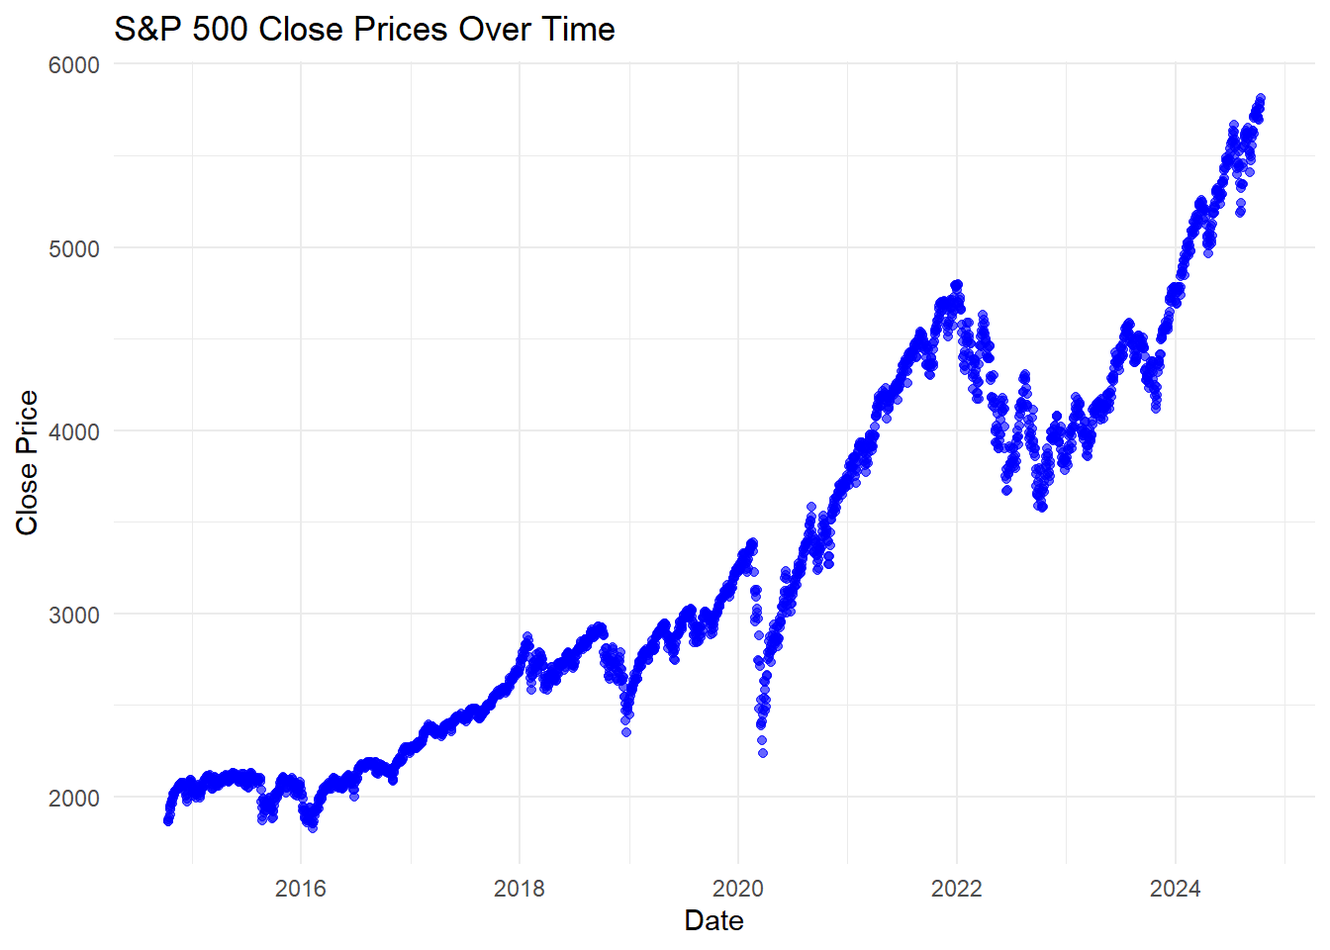
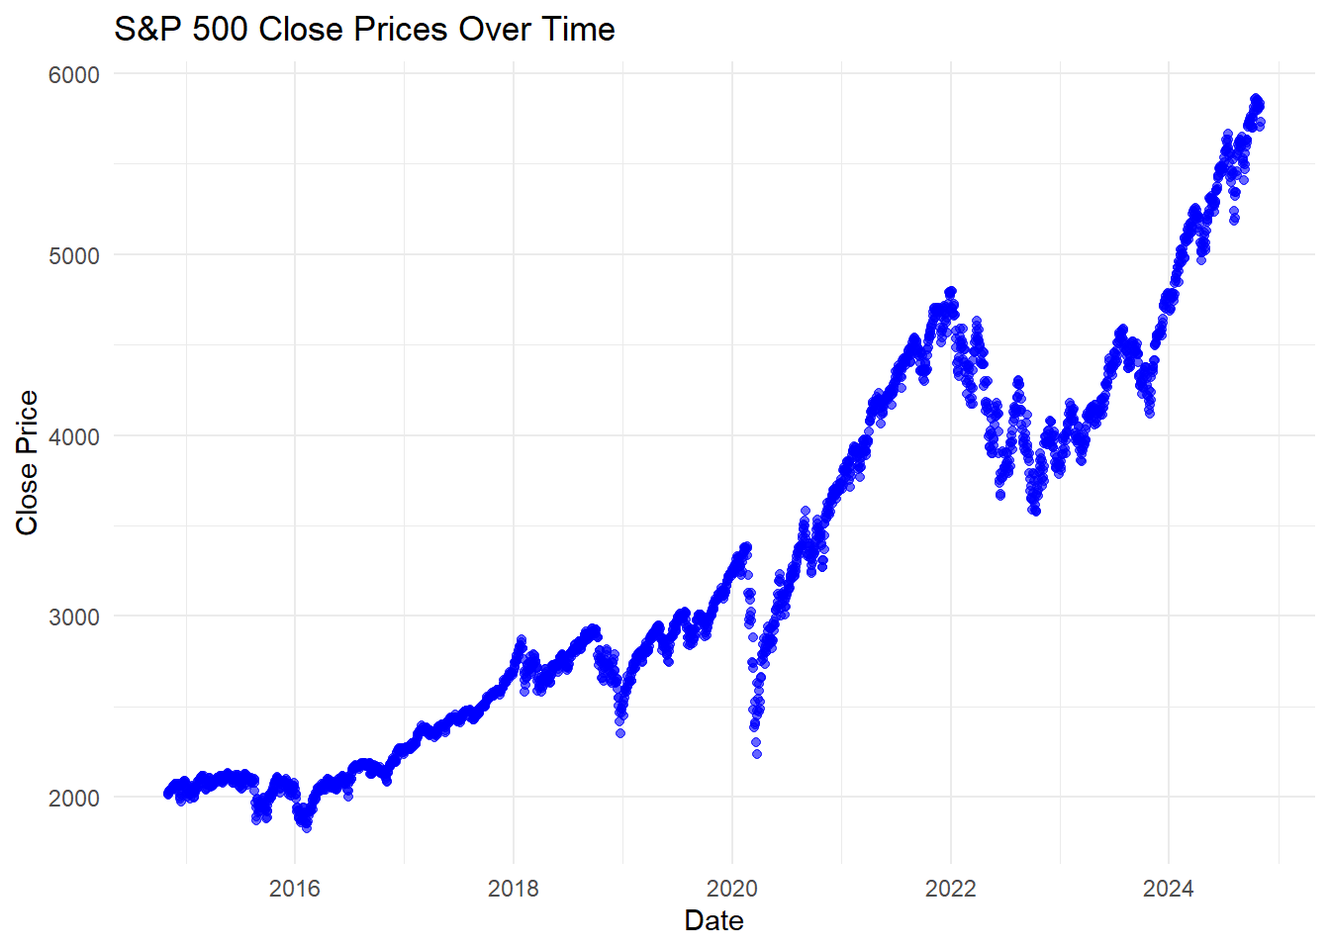
Cambios actividad 3

diff --git a/docs/análisis-avanzado-de-series-de-tiempo.html b/docs/análisis-avanzado-de-series-de-tiempo.html
@@ -4,13 +4,13 @@
 
   <meta charset="utf-8" />
   <meta http-equiv="X-UA-Compatible" content="IE=edge" />
-  <title>Análisis de Series de Tiempo</title>
+  <title> 3 Análisis Avanzado de Series de Tiempo | Análisis de Series de Tiempo</title>
   <meta name="description" content="<p>This is a minimal example of using the bookdown package to write a book.
 The HTML output format for this example is bookdown::gitbook,
 set in the _output.yml file.</p>" />
   <meta name="generator" content="bookdown 0.41 and GitBook 2.6.7" />
 
-  <meta property="og:title" content="Análisis de Series de Tiempo" />
+  <meta property="og:title" content=" 3 Análisis Avanzado de Series de Tiempo | Análisis de Series de Tiempo" />
   <meta property="og:type" content="book" />
   
   <meta property="og:description" content="<p>This is a minimal example of using the bookdown package to write a book.
@@ -19,7 +19,7 @@ set in the _output.yml file.</p>" />
   <meta name="github-repo" content="rstudio/bookdown-demo" />
 
   <meta name="twitter:card" content="summary" />
-  <meta name="twitter:title" content="Análisis de Series de Tiempo" />
+  <meta name="twitter:title" content=" 3 Análisis Avanzado de Series de Tiempo | Análisis de Series de Tiempo" />
   
   <meta name="twitter:description" content="<p>This is a minimal example of using the bookdown package to write a book.
 The HTML output format for this example is bookdown::gitbook,
@@ -36,8 +36,8 @@ set in the _output.yml file.</p>" />
   <meta name="apple-mobile-web-app-status-bar-style" content="black" />
   
   
+<link rel="prev" href="análisis-gráfico-del-comportamiento-del-sp-500.html"/>
 
-<link rel="next" href="análisis-gráfico-del-comportamiento-del-sp-500.html"/>
 <script src="libs/jquery-3.6.0/jquery-3.6.0.min.js"></script>
 <script src="https://cdn.jsdelivr.net/npm/fuse.js@6.4.6/dist/fuse.min.js"></script>
 <link href="libs/gitbook-2.6.7/css/style.css" rel="stylesheet" />
@@ -188,98 +188,20 @@ code span.wa { color: #60a0b0; font-weight: bold; font-style: italic; } /* Warni
           <div class="page-inner">
 
             <section class="normal" id="section-">
-<div id="header">
-<h1 class="title">Análisis de Series de Tiempo</h1>
-<p class="author"><em>Grupo 8</em></p>
-<p class="date"><em>2024-11-03</em></p>
+<div id="análisis-avanzado-de-series-de-tiempo" class="section level1 hasAnchor" number="3">
+<h1><span class="header-section-number"> 3</span> Análisis Avanzado de Series de Tiempo<a href="análisis-avanzado-de-series-de-tiempo.html#análisis-avanzado-de-series-de-tiempo" class="anchor-section" aria-label="Anchor link to header"></a></h1>
+<div id="descomposición-de-la-serie-de-tiempo" class="section level2 hasAnchor" number="3.1">
+<h2><span class="header-section-number">3.1</span> Descomposición de la Serie de Tiempo<a href="análisis-avanzado-de-series-de-tiempo.html#descomposición-de-la-serie-de-tiempo" class="anchor-section" aria-label="Anchor link to header"></a></h2>
 </div>
-<div id="propuesta-de-estructura-de-datos-a-trabajar-en-el-curso" class="section level1 hasAnchor" number="1">
-<h1><span class="header-section-number"> 1</span> Propuesta de estructura de datos a trabajar en el curso<a href="index.html#propuesta-de-estructura-de-datos-a-trabajar-en-el-curso" class="anchor-section" aria-label="Anchor link to header"></a></h1>
-<p>La estructura de información a trabajar en el curso será la serie de tiempo correspondiente al índice S&amp;P 500, el cual es un indicador ponderado del valor de capitalización de las 500 compañías más importantes de Estados Unidos.</p>
-<p>Calculado por la evaluadora de riesgo Standard &amp; Poor’s, este índice captura el 80% del comportamiento de la capitalización bursátil en el mercado americano. En tanto su estructura posee mayor diversidad en el tipo de compañías que lo componen, se tiene que el índice S&amp;P 500 es una buena medida para monitorear y predecir la actividad económica en los enclaves económicos de mayor importancia a nivel global.</p>
-<p>En general, la pertinencia del uso de este dataset radica en 3 razones principales:</p>
-<ul>
-<li><p>En principio, se trata de una estructura de información concisa, legítima en el marco de las actividades de sectores financieros globales, y sin problemas previos en cuanto a la limpieza de sus observaciones. Por lo que una rutina progresiva de análisis sobre esta base de datos se puede dar con mayor facilidad e interpretabilidad.</p></li>
-<li><p>El estudio del comportamiento de la capitalización bursátil a nivel global, contenido en el dataset escogido, implica una vista previa y una posible profundización del análisis financiero en el marco de las series de tiempo sobre el comportamiento de firmas, sectores y economías de alto impacto. De esta manera, la aplicación de la rutina de análisis del curso sobre este dataset puede decantar en un ejercicio robusto que puede extenderse más allá de los propósitos básicos de aprendizaje, y conformar una herramienta útil para las intenciones del autor.</p></li>
-<li><p>El estudio de la estructura y comportamiento de este dataset como serie de tiempo, inmerso en las dinámicas de intercambio de los mercados de activos financieros, puede representar una herramienta de profundización para la toma de decisiones en materia de optimización de portafolios, y, en general, en materia de comprensión e implementación práctica de instrumentos aplicados de análisis de procesos estocásticos y metodologías de pronósticos.</p></li>
-</ul>
-<div id="dataset" class="section level2 hasAnchor" number="1.1">
-<h2><span class="header-section-number">1.1</span> Dataset:<a href="index.html#dataset" class="anchor-section" aria-label="Anchor link to header"></a></h2>
-<div class="sourceCode" id="cb1"><pre class="sourceCode r"><code class="sourceCode r"><span id="cb1-1"><a href="index.html#cb1-1" tabindex="-1"></a><span class="co"># Load necessary libraries</span></span>
-<span id="cb1-2"><a href="index.html#cb1-2" tabindex="-1"></a><span class="fu">library</span>(rvest)</span>
-<span id="cb1-3"><a href="index.html#cb1-3" tabindex="-1"></a><span class="fu">library</span>(dplyr)</span>
-<span id="cb1-4"><a href="index.html#cb1-4" tabindex="-1"></a></span>
-<span id="cb1-5"><a href="index.html#cb1-5" tabindex="-1"></a><span class="co"># Load necessary libraries</span></span>
-<span id="cb1-6"><a href="index.html#cb1-6" tabindex="-1"></a><span class="fu">library</span>(readr)</span>
-<span id="cb1-7"><a href="index.html#cb1-7" tabindex="-1"></a></span>
-<span id="cb1-8"><a href="index.html#cb1-8" tabindex="-1"></a><span class="co"># Import the downloaded CSV file (change the path accordingly)</span></span>
-<span id="cb1-9"><a href="index.html#cb1-9" tabindex="-1"></a>spx_data <span class="ot">&lt;-</span> <span class="fu">read_csv</span>(<span class="st">&quot;C:/Users/anaso/Downloads/HistoricalData_1728883475484.csv&quot;</span>)</span>
-<span id="cb1-10"><a href="index.html#cb1-10" tabindex="-1"></a></span>
-<span id="cb1-11"><a href="index.html#cb1-11" tabindex="-1"></a><span class="co"># Display the first few rows of the dataset</span></span>
-<span id="cb1-12"><a href="index.html#cb1-12" tabindex="-1"></a><span class="fu">head</span>(spx_data)</span></code></pre></div>
-<pre><code>## # A tibble: 6 × 5
-##   Date       `Close/Last`  Open  High   Low
-##   &lt;chr&gt;             &lt;dbl&gt; &lt;dbl&gt; &lt;dbl&gt; &lt;dbl&gt;
-## 1 11/01/2024        5729. 5723. 5773. 5723.
-## 2 10/31/2024        5705. 5775. 5775. 5703.
-## 3 10/30/2024        5814. 5833. 5851. 5811.
-## 4 10/29/2024        5833. 5820. 5847. 5802.
-## 5 10/28/2024        5824. 5834. 5843. 5823.
-## 6 10/25/2024        5808. 5827. 5863. 5800.</code></pre>
+<div id="verificación-de-estacionariedad" class="section level2 hasAnchor" number="3.2">
+<h2><span class="header-section-number">3.2</span> Verificación de Estacionariedad<a href="análisis-avanzado-de-series-de-tiempo.html#verificación-de-estacionariedad" class="anchor-section" aria-label="Anchor link to header"></a></h2>
 </div>
-<div id="summary" class="section level2 hasAnchor" number="1.2">
-<h2><span class="header-section-number">1.2</span> Summary:<a href="index.html#summary" class="anchor-section" aria-label="Anchor link to header"></a></h2>
-<div class="sourceCode" id="cb3"><pre class="sourceCode r"><code class="sourceCode r"><span id="cb3-1"><a href="index.html#cb3-1" tabindex="-1"></a><span class="fu">summary</span>(spx_data)</span></code></pre></div>
-<pre><code>##      Date             Close/Last        Open           High           Low      
-##  Length:2528        Min.   :1829   Min.   :   0   Min.   :   0   Min.   :   0  
-##  Class :character   1st Qu.:2378   1st Qu.:2379   1st Qu.:2388   1st Qu.:2367  
-##  Mode  :character   Median :2954   Median :2953   Median :2966   Median :2939  
-##                     Mean   :3288   Mean   :3278   Mean   :3296   Mean   :3260  
-##                     3rd Qu.:4163   3rd Qu.:4159   3rd Qu.:4183   3rd Qu.:4130  
-##                     Max.   :5865   Max.   :5876   Max.   :5878   Max.   :5846</code></pre>
+<div id="diferenciación-de-la-serie" class="section level2 hasAnchor" number="3.3">
+<h2><span class="header-section-number">3.3</span> Diferenciación de la Serie<a href="análisis-avanzado-de-series-de-tiempo.html#diferenciación-de-la-serie" class="anchor-section" aria-label="Anchor link to header"></a></h2>
 </div>
-<div id="scatter-plott-de-la-serie-de-tiempo" class="section level2 hasAnchor" number="1.3">
-<h2><span class="header-section-number">1.3</span> Scatter plott de la serie de tiempo:<a href="index.html#scatter-plott-de-la-serie-de-tiempo" class="anchor-section" aria-label="Anchor link to header"></a></h2>
-<div class="sourceCode" id="cb5"><pre class="sourceCode r"><code class="sourceCode r"><span id="cb5-1"><a href="index.html#cb5-1" tabindex="-1"></a><span class="co"># Load necessary libraries</span></span>
-<span id="cb5-2"><a href="index.html#cb5-2" tabindex="-1"></a><span class="fu">library</span>(ggplot2)</span>
-<span id="cb5-3"><a href="index.html#cb5-3" tabindex="-1"></a><span class="fu">library</span>(dplyr)</span>
-<span id="cb5-4"><a href="index.html#cb5-4" tabindex="-1"></a></span>
-<span id="cb5-5"><a href="index.html#cb5-5" tabindex="-1"></a><span class="co"># Print the column names to check their exact names</span></span>
-<span id="cb5-6"><a href="index.html#cb5-6" tabindex="-1"></a><span class="co">#print(colnames(spx_data))</span></span>
-<span id="cb5-7"><a href="index.html#cb5-7" tabindex="-1"></a></span>
-<span id="cb5-8"><a href="index.html#cb5-8" tabindex="-1"></a><span class="co"># Convert the Date column to Date type</span></span>
-<span id="cb5-9"><a href="index.html#cb5-9" tabindex="-1"></a>spx_data <span class="ot">&lt;-</span> spx_data <span class="sc">%&gt;%</span> </span>
-<span id="cb5-10"><a href="index.html#cb5-10" tabindex="-1"></a>  <span class="fu">mutate</span>(<span class="at">Date =</span> <span class="fu">as.Date</span>(Date, <span class="at">format =</span> <span class="st">&quot;%m/%d/%Y&quot;</span>))</span>
-<span id="cb5-11"><a href="index.html#cb5-11" tabindex="-1"></a></span>
-<span id="cb5-12"><a href="index.html#cb5-12" tabindex="-1"></a><span class="co"># Update the column name here after checking the output of print(colnames(spx_data))</span></span>
-<span id="cb5-13"><a href="index.html#cb5-13" tabindex="-1"></a>spx_data <span class="ot">&lt;-</span> spx_data <span class="sc">%&gt;%</span></span>
-<span id="cb5-14"><a href="index.html#cb5-14" tabindex="-1"></a>  <span class="fu">mutate</span>(<span class="at">Close_price =</span> <span class="fu">as.numeric</span>(<span class="fu">gsub</span>(<span class="st">&quot;[^0-9.]&quot;</span>, <span class="st">&quot;&quot;</span>, <span class="st">`</span><span class="at">Close/Last</span><span class="st">`</span>)))  <span class="co"># Update this line with the correct name</span></span>
-<span id="cb5-15"><a href="index.html#cb5-15" tabindex="-1"></a></span>
-<span id="cb5-16"><a href="index.html#cb5-16" tabindex="-1"></a><span class="co"># Remove rows with NA values in Date or Close_price</span></span>
-<span id="cb5-17"><a href="index.html#cb5-17" tabindex="-1"></a>spx_data <span class="ot">&lt;-</span> spx_data <span class="sc">%&gt;%</span></span>
-<span id="cb5-18"><a href="index.html#cb5-18" tabindex="-1"></a>  <span class="fu">filter</span>(<span class="sc">!</span><span class="fu">is.na</span>(Date) <span class="sc">&amp;</span> <span class="sc">!</span><span class="fu">is.na</span>(Close_price))</span>
-<span id="cb5-19"><a href="index.html#cb5-19" tabindex="-1"></a></span>
-<span id="cb5-20"><a href="index.html#cb5-20" tabindex="-1"></a><span class="co"># Create the scatter plot</span></span>
-<span id="cb5-21"><a href="index.html#cb5-21" tabindex="-1"></a><span class="fu">ggplot</span>(spx_data, <span class="fu">aes</span>(<span class="at">x =</span> Date, <span class="at">y =</span> Close_price)) <span class="sc">+</span></span>
-<span id="cb5-22"><a href="index.html#cb5-22" tabindex="-1"></a>  <span class="fu">geom_point</span>(<span class="at">color =</span> <span class="st">&quot;blue&quot;</span>, <span class="at">alpha =</span> <span class="fl">0.6</span>) <span class="sc">+</span></span>
-<span id="cb5-23"><a href="index.html#cb5-23" tabindex="-1"></a>  <span class="fu">labs</span>(<span class="at">title =</span> <span class="st">&quot;S&amp;P 500 Close Prices Over Time&quot;</span>,</span>
-<span id="cb5-24"><a href="index.html#cb5-24" tabindex="-1"></a>       <span class="at">x =</span> <span class="st">&quot;Date&quot;</span>,</span>
-<span id="cb5-25"><a href="index.html#cb5-25" tabindex="-1"></a>       <span class="at">y =</span> <span class="st">&quot;Close Price&quot;</span>) <span class="sc">+</span></span>
-<span id="cb5-26"><a href="index.html#cb5-26" tabindex="-1"></a>  <span class="fu">theme_minimal</span>()</span></code></pre></div>
-<p><img src="_main_files/figure-html/scatter%20plot1-1.png" width="672" /></p>
-</div>
-<div id="fuente" class="section level2 hasAnchor" number="1.4">
-<h2><span class="header-section-number">1.4</span> Fuente:<a href="index.html#fuente" class="anchor-section" aria-label="Anchor link to header"></a></h2>
-<p><a href="https://www.nasdaq.com/market-activity/index/spx/historical?page=1&amp;rows_per_page=10&amp;timeline=y10" class="uri">https://www.nasdaq.com/market-activity/index/spx/historical?page=1&amp;rows_per_page=10&amp;timeline=y10</a></p>
-<pre><code>## # A tibble: 6 × 5
-##   Date       `Close/Last`  Open  High   Low
-##   &lt;chr&gt;             &lt;dbl&gt; &lt;dbl&gt; &lt;dbl&gt; &lt;dbl&gt;
-## 1 11/01/2024        5729. 5723. 5773. 5723.
-## 2 10/31/2024        5705. 5775. 5775. 5703.
-## 3 10/30/2024        5814. 5833. 5851. 5811.
-## 4 10/29/2024        5833. 5820. 5847. 5802.
-## 5 10/28/2024        5824. 5834. 5843. 5823.
-## 6 10/25/2024        5808. 5827. 5863. 5800.</code></pre>
+<div id="transformación-para-control-de-tendencia-y-variabilidad" class="section level2 hasAnchor" number="3.4">
+<h2><span class="header-section-number">3.4</span> Transformación para Control de Tendencia y Variabilidad<a href="análisis-avanzado-de-series-de-tiempo.html#transformación-para-control-de-tendencia-y-variabilidad" class="anchor-section" aria-label="Anchor link to header"></a></h2>
+
 </div>
 </div>
             </section>
@@ -287,8 +209,8 @@ code span.wa { color: #60a0b0; font-weight: bold; font-style: italic; } /* Warni
           </div>
         </div>
       </div>
+<a href="análisis-gráfico-del-comportamiento-del-sp-500.html" class="navigation navigation-prev navigation-unique" aria-label="Previous page"><i class="fa fa-angle-left"></i></a>
 
-<a href="análisis-gráfico-del-comportamiento-del-sp-500.html" class="navigation navigation-next navigation-unique" aria-label="Next page"><i class="fa fa-angle-right"></i></a>
     </div>
   </div>
 <script src="libs/gitbook-2.6.7/js/app.min.js"></script>

diff --git a/docs/análisis-gráfico-del-comportamiento-del-sp-500.html b/docs/análisis-gráfico-del-comportamiento-del-sp-500.html
@@ -8,7 +8,7 @@
   <meta name="description" content="<p>This is a minimal example of using the bookdown package to write a book.
 The HTML output format for this example is bookdown::gitbook,
 set in the _output.yml file.</p>" />
-  <meta name="generator" content="bookdown 0.40 and GitBook 2.6.7" />
+  <meta name="generator" content="bookdown 0.41 and GitBook 2.6.7" />
 
   <meta property="og:title" content=" 2 Análisis gráfico del comportamiento del S&amp;P 500 | Análisis de Series de Tiempo" />
   <meta property="og:type" content="book" />
@@ -29,7 +29,7 @@ set in the _output.yml file.</p>" />
 <meta name="author" content="Grupo 8" />
 
 
-<meta name="date" content="2024-11-02" />
+<meta name="date" content="2024-11-03" />
 
   <meta name="viewport" content="width=device-width, initial-scale=1" />
   <meta name="apple-mobile-web-app-capable" content="yes" />
@@ -37,7 +37,7 @@ set in the _output.yml file.</p>" />
   
   
 <link rel="prev" href="index.html"/>
-
+<link rel="next" href="análisis-avanzado-de-series-de-tiempo.html"/>
 <script src="libs/jquery-3.6.0/jquery-3.6.0.min.js"></script>
 <script src="https://cdn.jsdelivr.net/npm/fuse.js@6.4.6/dist/fuse.min.js"></script>
 <link href="libs/gitbook-2.6.7/css/style.css" rel="stylesheet" />
@@ -62,7 +62,7 @@ set in the _output.yml file.</p>" />
 
 <style type="text/css">
 pre > code.sourceCode { white-space: pre; position: relative; }
-pre > code.sourceCode > span { line-height: 1.25; }
+pre > code.sourceCode > span { display: inline-block; line-height: 1.25; }
 pre > code.sourceCode > span:empty { height: 1.2em; }
 .sourceCode { overflow: visible; }
 code.sourceCode > span { color: inherit; text-decoration: inherit; }
@@ -161,6 +161,13 @@ code span.wa { color: #60a0b0; font-weight: bold; font-style: italic; } /* Warni
 <li class="chapter" data-level="2.4" data-path="análisis-gráfico-del-comportamiento-del-sp-500.html"><a href="análisis-gráfico-del-comportamiento-del-sp-500.html#aproximación-por-ma"><i class="fa fa-check"></i><b>2.4</b> Aproximación por MA</a></li>
 <li class="chapter" data-level="2.5" data-path="análisis-gráfico-del-comportamiento-del-sp-500.html"><a href="análisis-gráfico-del-comportamiento-del-sp-500.html#aproximación-por-rezagos"><i class="fa fa-check"></i><b>2.5</b> Aproximación por rezagos</a></li>
 </ul></li>
+<li class="chapter" data-level="3" data-path="análisis-avanzado-de-series-de-tiempo.html"><a href="análisis-avanzado-de-series-de-tiempo.html"><i class="fa fa-check"></i><b>3</b> Análisis Avanzado de Series de Tiempo</a>
+<ul>
+<li class="chapter" data-level="3.1" data-path="análisis-avanzado-de-series-de-tiempo.html"><a href="análisis-avanzado-de-series-de-tiempo.html#descomposición-de-la-serie-de-tiempo"><i class="fa fa-check"></i><b>3.1</b> Descomposición de la Serie de Tiempo</a></li>
+<li class="chapter" data-level="3.2" data-path="análisis-avanzado-de-series-de-tiempo.html"><a href="análisis-avanzado-de-series-de-tiempo.html#verificación-de-estacionariedad"><i class="fa fa-check"></i><b>3.2</b> Verificación de Estacionariedad</a></li>
+<li class="chapter" data-level="3.3" data-path="análisis-avanzado-de-series-de-tiempo.html"><a href="análisis-avanzado-de-series-de-tiempo.html#diferenciación-de-la-serie"><i class="fa fa-check"></i><b>3.3</b> Diferenciación de la Serie</a></li>
+<li class="chapter" data-level="3.4" data-path="análisis-avanzado-de-series-de-tiempo.html"><a href="análisis-avanzado-de-series-de-tiempo.html#transformación-para-control-de-tendencia-y-variabilidad"><i class="fa fa-check"></i><b>3.4</b> Transformación para Control de Tendencia y Variabilidad</a></li>
+</ul></li>
 <li class="divider"></li>
 <li><a href="https://github.com/rstudio/bookdown" target="blank">Published with bookdown</a></li>
 
@@ -201,12 +208,12 @@ code span.wa { color: #60a0b0; font-weight: bold; font-style: italic; } /* Warni
 <span id="cb7-12"><a href="análisis-gráfico-del-comportamiento-del-sp-500.html#cb7-12" tabindex="-1"></a></span>
 <span id="cb7-13"><a href="análisis-gráfico-del-comportamiento-del-sp-500.html#cb7-13" tabindex="-1"></a><span class="fu">head</span>(spx_Close_ts)</span></code></pre></div>
 <pre><code>##               [,1]
-## 2014-10-14 1877.70
-## 2014-10-15 1862.49
-## 2014-10-16 1862.76
-## 2014-10-17 1886.76
-## 2014-10-20 1904.01
-## 2014-10-21 1941.28</code></pre>
+## 2014-11-03 2017.81
+## 2014-11-04 2012.10
+## 2014-11-05 2023.57
+## 2014-11-06 2031.21
+## 2014-11-07 2031.92
+## 2014-11-10 2038.26</code></pre>
 </div>
 <div id="serie-de-tiempo-en-bruto" class="section level2 hasAnchor" number="2.2">
 <h2><span class="header-section-number">2.2</span> Serie de tiempo en bruto<a href="análisis-gráfico-del-comportamiento-del-sp-500.html#serie-de-tiempo-en-bruto" class="anchor-section" aria-label="Anchor link to header"></a></h2>
@@ -312,7 +319,6 @@ Donde <span class="math inline">\(Y^*\)</span> es la serie de tiempo diferenciad
 <span id="cb17-2"><a href="análisis-gráfico-del-comportamiento-del-sp-500.html#cb17-2" tabindex="-1"></a><span class="fu">legend</span>(<span class="st">&quot;topright&quot;</span>, <span class="at">legend =</span> <span class="fu">c</span>(<span class="st">&quot;Original&quot;</span>, <span class="st">&quot;7-day Lag&quot;</span>),</span>
 <span id="cb17-3"><a href="análisis-gráfico-del-comportamiento-del-sp-500.html#cb17-3" tabindex="-1"></a>       <span class="at">col =</span> <span class="fu">c</span>(<span class="st">&quot;black&quot;</span>, <span class="st">&quot;blue&quot;</span>), <span class="at">lwd =</span> <span class="dv">1</span>)</span></code></pre></div>
 <p><img src="_main_files/figure-html/lagged1-2.png" width="672" /></p>
-
 </div>
 </div>
             </section>
@@ -320,8 +326,8 @@ Donde <span class="math inline">\(Y^*\)</span> es la serie de tiempo diferenciad
           </div>
         </div>
       </div>
-<a href="index.html" class="navigation navigation-prev navigation-unique" aria-label="Previous page"><i class="fa fa-angle-left"></i></a>
-
+<a href="index.html" class="navigation navigation-prev " aria-label="Previous page"><i class="fa fa-angle-left"></i></a>
+<a href="análisis-avanzado-de-series-de-tiempo.html" class="navigation navigation-next " aria-label="Next page"><i class="fa fa-angle-right"></i></a>
     </div>
   </div>
 <script src="libs/gitbook-2.6.7/js/app.min.js"></script>

diff --git a/docs/404.html b/docs/404.html
@@ -8,7 +8,7 @@
   <meta name="description" content="<p>This is a minimal example of using the bookdown package to write a book.
 The HTML output format for this example is bookdown::gitbook,
 set in the _output.yml file.</p>" />
-  <meta name="generator" content="bookdown 0.40 and GitBook 2.6.7" />
+  <meta name="generator" content="bookdown 0.41 and GitBook 2.6.7" />
 
   <meta property="og:title" content="Page not found | Análisis de Series de Tiempo" />
   <meta property="og:type" content="book" />
@@ -29,7 +29,7 @@ set in the _output.yml file.</p>" />
 <meta name="author" content="Grupo 8" />
 
 
-<meta name="date" content="2024-11-02" />
+<meta name="date" content="2024-11-03" />
 
   <meta name="viewport" content="width=device-width, initial-scale=1" />
   <meta name="apple-mobile-web-app-capable" content="yes" />
@@ -62,7 +62,7 @@ set in the _output.yml file.</p>" />
 
 <style type="text/css">
 pre > code.sourceCode { white-space: pre; position: relative; }
-pre > code.sourceCode > span { line-height: 1.25; }
+pre > code.sourceCode > span { display: inline-block; line-height: 1.25; }
 pre > code.sourceCode > span:empty { height: 1.2em; }
 .sourceCode { overflow: visible; }
 code.sourceCode > span { color: inherit; text-decoration: inherit; }
@@ -160,6 +160,13 @@ code span.wa { color: #60a0b0; font-weight: bold; font-style: italic; } /* Warni
 <li class="chapter" data-level="2.3" data-path="análisis-gráfico-del-comportamiento-del-sp-500.html"><a href="análisis-gráfico-del-comportamiento-del-sp-500.html#estacionalidad-y-tratamiento"><i class="fa fa-check"></i><b>2.3</b> Estacionalidad y tratamiento</a></li>
 <li class="chapter" data-level="2.4" data-path="análisis-gráfico-del-comportamiento-del-sp-500.html"><a href="análisis-gráfico-del-comportamiento-del-sp-500.html#aproximación-por-ma"><i class="fa fa-check"></i><b>2.4</b> Aproximación por MA</a></li>
 <li class="chapter" data-level="2.5" data-path="análisis-gráfico-del-comportamiento-del-sp-500.html"><a href="análisis-gráfico-del-comportamiento-del-sp-500.html#aproximación-por-rezagos"><i class="fa fa-check"></i><b>2.5</b> Aproximación por rezagos</a></li>
+</ul></li>
+<li class="chapter" data-level="3" data-path="análisis-avanzado-de-series-de-tiempo.html"><a href="análisis-avanzado-de-series-de-tiempo.html"><i class="fa fa-check"></i><b>3</b> Análisis Avanzado de Series de Tiempo</a>
+<ul>
+<li class="chapter" data-level="3.1" data-path="análisis-avanzado-de-series-de-tiempo.html"><a href="análisis-avanzado-de-series-de-tiempo.html#descomposición-de-la-serie-de-tiempo"><i class="fa fa-check"></i><b>3.1</b> Descomposición de la Serie de Tiempo</a></li>
+<li class="chapter" data-level="3.2" data-path="análisis-avanzado-de-series-de-tiempo.html"><a href="análisis-avanzado-de-series-de-tiempo.html#verificación-de-estacionariedad"><i class="fa fa-check"></i><b>3.2</b> Verificación de Estacionariedad</a></li>
+<li class="chapter" data-level="3.3" data-path="análisis-avanzado-de-series-de-tiempo.html"><a href="análisis-avanzado-de-series-de-tiempo.html#diferenciación-de-la-serie"><i class="fa fa-check"></i><b>3.3</b> Diferenciación de la Serie</a></li>
+<li class="chapter" data-level="3.4" data-path="análisis-avanzado-de-series-de-tiempo.html"><a href="análisis-avanzado-de-series-de-tiempo.html#transformación-para-control-de-tendencia-y-variabilidad"><i class="fa fa-check"></i><b>3.4</b> Transformación para Control de Tendencia y Variabilidad</a></li>
 </ul></li>
 <li class="divider"></li>
 <li><a href="https://github.com/rstudio/bookdown" target="blank">Published with bookdown</a></li>
